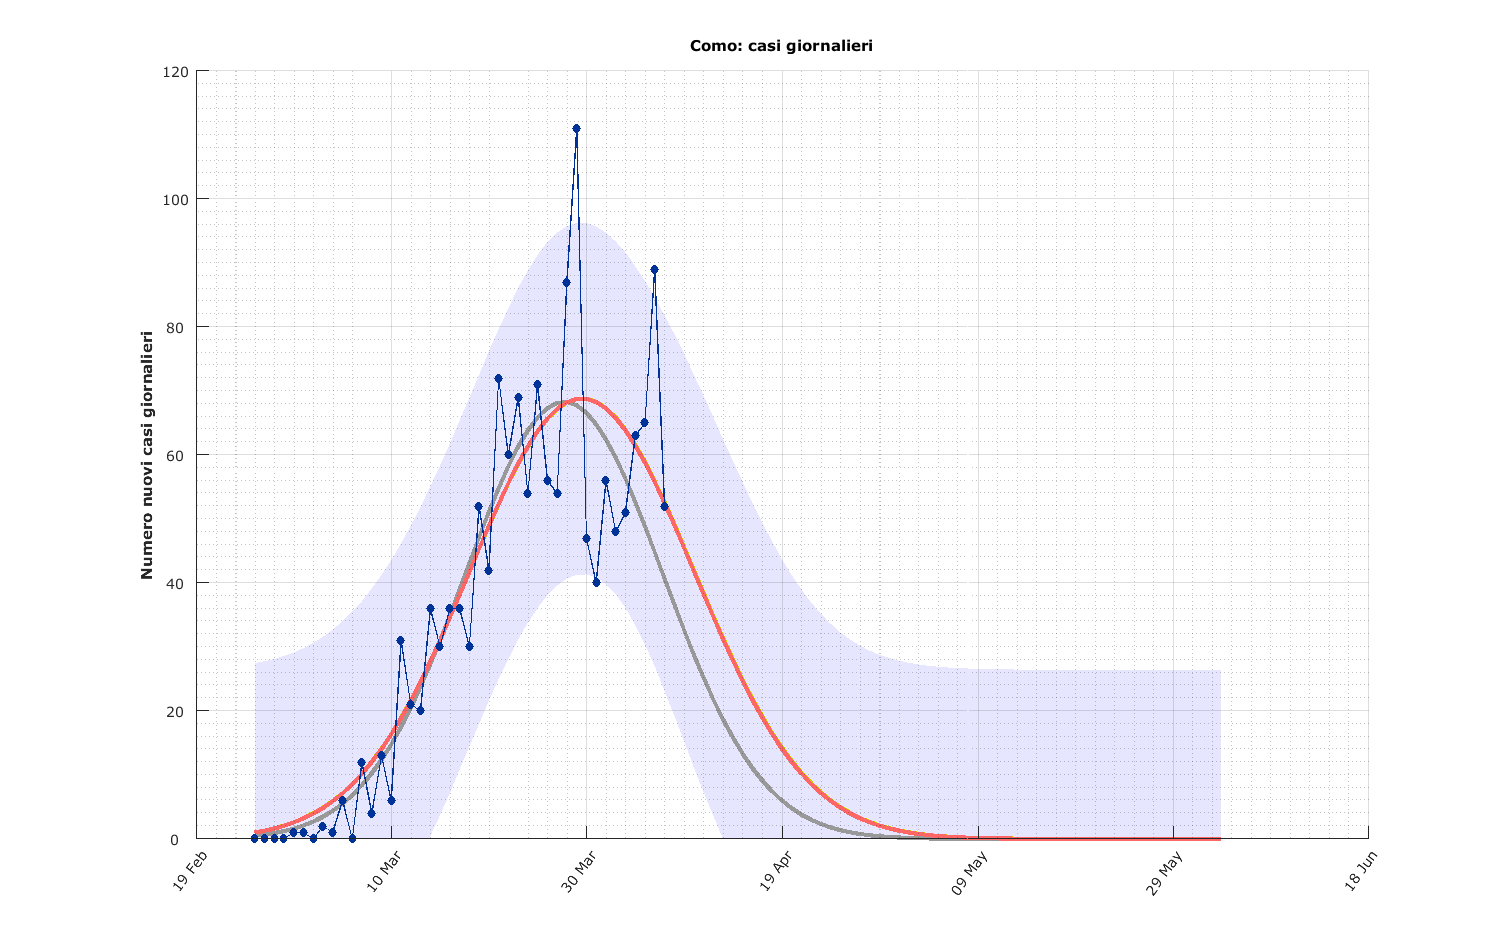
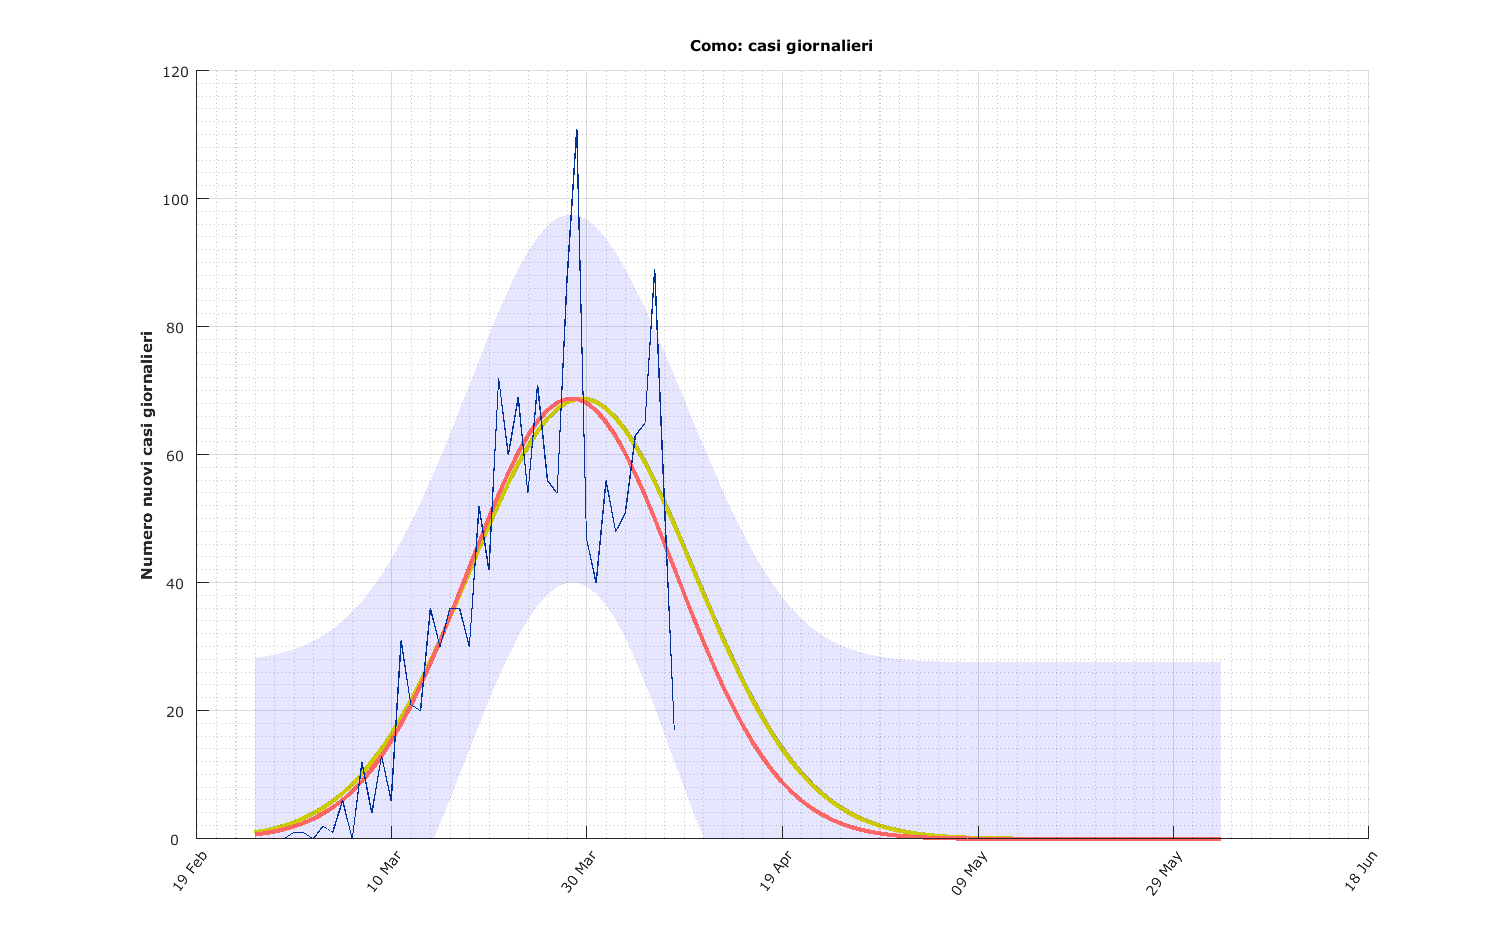
Update GIF!

diff --git a/code/Analyse_gaussian.m b/code/Analyse_gaussian.m
@@ -2210,46 +2210,43 @@ for reg=9%1:size(regioni_tot,1)
     end
     
     
-    %comodaily
-    data=dataReg.totale_casi(index,1);
-    data=diff(data);   time_num=time_num(2:end);
-    fout=fopen('testIn_gauss.txt','wt');
-    for i=1:size(data,1)
-        fprintf(fout,'%d;%d\n',time_num(i),data(i));
-    end
-    command=sprintf('gauss_estim testIn_gauss.txt');system(command);
-    [t,a1,a2,a3,a4,a5]=textread('testIn_gauss_fit.txt','%d%f%f%f%f%f','delimiter',';');
-    id_f = gcf;
-    set(id_f, 'Name', [regione ': casi giornalieri']);
-    title(sprintf([regione ': casi giornalieri\\fontsize{5}\n ']))
-    set(gcf,'NumberTitle','Off');
-    set(gcf,'Position',[26 79 967 603]);
-    grid on; hold on; grid minor
-    shadedplot(t,a4',a5',[0.9 0.9 1]);  hold on
-    d=plot(t,a3,'-b','LineWidth', 2.0,'color',[0.600000023841858 0.600000023841858 0.600000023841858]);
-    c=plot(t,a2,'-g','LineWidth', 2.0,'color',[0.800000011920929 0.800000011920929 0]);
-    b=plot(t,a1,'-r','LineWidth', 2.0,'color',[1 0.400000005960464 0.400000005960464]);
-    a=plot(time_num,data,'-b','markersize',14,'color',[0 0.200000002980232 0.600000023841858]);
-    
-    ax = gca;
-    code_axe = get(id_f, 'CurrentAxes');
-    set(code_axe, 'FontName', 'Verdana');
-    set(code_axe, 'FontSize', font_size);
-    ylimi=get(gca,'ylim');
-    set(gca,'ylim',([0,ylimi(2)]));
-    ax.YTickLabel = mat2cell(ax.YTick, 1, numel(ax.YTick))';
-    ylabel('Numero nuovi casi giornalieri', 'FontName', 'Verdana', 'FontWeight', 'Bold','FontSize',8);
-    datetick('x', datetickFormat, 'keepticks') ;
-    set(gca,'XTickLabelRotation',53,'FontSize',6.5);
-    ax.FontSize = font_size;
-    print(gcf, '-dpng', [WORKroot,'/slides/img/regioni/reg_stimapiccoNuoviGiornalieri_',regione, '_giornalieri.PNG']);
-   close(gcf);
-        % %
-        %                                 command=sprintf('chi_estim_conf testIn_gauss.txt');system(command);
-        %                                 [t,a1,a2,a3,a4,a5]=textread('testIn_gauss_chi_fit.txt','%d%f%f%f%f%f','delimiter',';');
-    
-    
-    
+%     %comodaily
+%     data=dataReg.totale_casi(index,1);
+%     data=diff(data);   time_num=time_num(2:end);
+%     fout=fopen('testIn_gauss.txt','wt');
+%     for i=1:size(data,1)
+%         fprintf(fout,'%d;%d\n',time_num(i),data(i));
+%     end
+%     command=sprintf('gauss_estim testIn_gauss.txt');system(command);
+%     [t,a1,a2,a3,a4,a5]=textread('testIn_gauss_fit.txt','%d%f%f%f%f%f','delimiter',';');
+%     id_f = gcf;
+%     set(id_f, 'Name', [regione ': casi giornalieri']);
+%     title(sprintf([regione ': casi giornalieri\\fontsize{5}\n ']))
+%     set(gcf,'NumberTitle','Off');
+%     set(gcf,'Position',[26 79 967 603]);
+%     grid on; hold on; grid minor
+%     shadedplot(t,a4',a5',[0.9 0.9 1]);  hold on
+%     d=plot(t,a3,'-b','LineWidth', 2.0,'color',[0.600000023841858 0.600000023841858 0.600000023841858]);
+%     c=plot(t,a2,'-g','LineWidth', 2.0,'color',[0.800000011920929 0.800000011920929 0]);
+%     b=plot(t,a1,'-r','LineWidth', 2.0,'color',[1 0.400000005960464 0.400000005960464]);
+%     a=plot(time_num,data,'-b','markersize',14,'color',[0 0.200000002980232 0.600000023841858]);
+%     
+%     ax = gca;
+%     code_axe = get(id_f, 'CurrentAxes');
+%     set(code_axe, 'FontName', 'Verdana');
+%     set(code_axe, 'FontSize', font_size);
+%     ylimi=get(gca,'ylim');
+%     set(gca,'ylim',([0,ylimi(2)]));
+%     ax.YTickLabel = mat2cell(ax.YTick, 1, numel(ax.YTick))';
+%     ylabel('Numero nuovi casi giornalieri', 'FontName', 'Verdana', 'FontWeight', 'Bold','FontSize',8);
+%     datetick('x', datetickFormat, 'keepticks') ;
+%     set(gca,'XTickLabelRotation',53,'FontSize',6.5);
+%     ax.FontSize = font_size;
+%     print(gcf, '-dpng', [WORKroot,'/slides/img/regioni/reg_stimapiccoNuoviGiornalieri_',regione, '_giornalieri.PNG']);
+%    close(gcf);
+% 
+%     
+%     
     
 end
 
